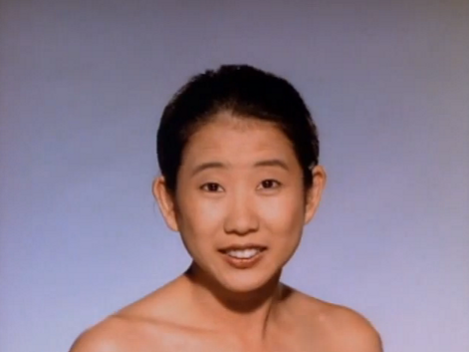
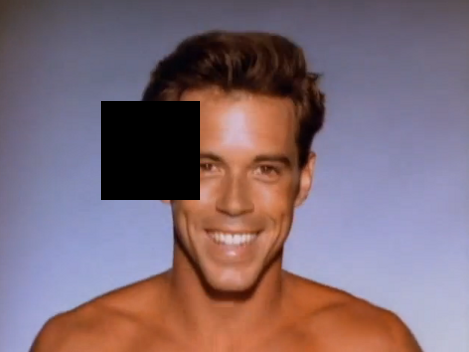
Morph update

diff --git a/morph.php b/morph.php
@@ -3,26 +3,39 @@
  * Documents:
  * http://www.cs.toronto.edu/~mangas/teaching/320/slides/CSC320T12.pdf
  * http://www.cs.cmu.edu/afs/andrew/scs/cs/15-463/99/pub/www/notes/warp.pdf
+ * http://graphics.cs.cmu.edu/courses/15-463/2011_fall/Lectures/morphing.pdf
  */
 
-$srcImage = __DIR__ . '/images/morph/pic2.png';
-$trgImage = __DIR__ . '/images/morph/pic3.png';
+$srcImage = __DIR__ . '/images/morph/pic3.png';
+$trgImage = __DIR__ . '/images/morph/pic2.png';
+
+$morphDir = __DIR__ . '/morph/';
+
+array_map('unlink', glob("$morphDir/*"));
 
 $info = getimagesize($srcImage);
 $width = array_shift($info);
 $height = array_shift($info);
 
-//$P = [240, 160];
-//$Q = [243, 224];
-//
-//$im = imagecreatefrompng($srcImage);
-//header('Content-Type: image/png');
-//$color = 0x0000FF;
-//imageline($im, $P[0], $P[1], $Q[0], $Q[1], $color);
-//imagepng($im);
-//imagedestroy($im);
-//
-//exit;
+$P = [180, 40];
+$Q = [140, 110];
+
+$filename = $morphDir . '/src.01.png';
+$im = imagecreatefrompng($srcImage);
+$color = 0x0000FF;
+imageline($im, $P[0], $P[1], $Q[0], $Q[1], $color);
+imagepng($im, $filename);
+imagedestroy($im);
+
+$P_ = [195, 67];
+$Q_ = [145, 145];
+
+$filename = $morphDir . '/trg.01.png';
+$im = imagecreatefrompng($trgImage);
+$color = 0x0000FF;
+imageline($im, $P_[0], $P_[1], $Q_[0], $Q_[1], $color);
+imagepng($im, $filename);
+imagedestroy($im);
 
 
 $srcImgData = [];
@@ -63,53 +76,81 @@ $step = 1 / $parts;
 
 $i = 1;
 
-$morphDir = __DIR__ . '/morph/';
+$dfrac = 0.5;
+$t = $dfrac;
 
-array_map('unlink', glob("$morphDir/*"));
+$P = [100, 100];
+$Q = [100, 200];
 
-for ($dfrac = 0; $dfrac < 2; $dfrac += $step) {
+$P_ = [200, 100];
+$Q_ = [200, 200];
 
-    if($dfrac > 1) {
-        $dfrac = 1;
-    }
+$Pt = [(1 - $t) * $P[0] + $t * $P_[0], (1 - $t) * $P[1] + $t * $P_[1]];
+$Qt = [(1 - $t) * $Q[0] + $t * $Q_[0], (1 - $t) * $Q[1] + $t * $Q_[1]];
 
-// Method: cross-dissolve 
+$p00 = $P;
+$p10 = $P_;
+$p01 = $Q;
+$p11 = $Q_;
 
-// http://www.cs.toronto.edu/~mangas/teaching/320/slides/CSC320T12.pdf
-// http://www.cs.cmu.edu/afs/andrew/scs/cs/15-463/99/pub/www/notes/warp.pdf
+//print_r([$p00, $p01, $p01, $p11]);exit;
 
-//for y = ymin to ymax
-//for x = xmin to xmax
-//temp[x,y].r = picA[x,y].r + dfrac*(picB[x,y].r-picA[x,y].r)
-//temp[x,y].g = picA[x,y].g + dfrac*(picB[x,y].g-picA[x,y].g)
-//temp[x,y].b = picA[x,y].b + dfrac*(picB[x,y].b-picA[x,y].b)
-
-    for ($r = 0; $r < $height; $r++) {
-        for ($c = 0; $c < $width; $c++) {
-            $resultImgData[$r][$c] =
-                  ($srcImgData[$r][$c][0] + $dfrac * ($trgImgData[$r][$c][0] - $srcImgData[$r][$c][0])) << 16  // R
-                | ($srcImgData[$r][$c][1] + $dfrac * ($trgImgData[$r][$c][1] - $srcImgData[$r][$c][1])) << 8   // G
-                | ($srcImgData[$r][$c][2] + $dfrac * ($trgImgData[$r][$c][2] - $srcImgData[$r][$c][2]));       // B
+for ($r = 0; $r < $height; $r++) {
+    for ($c = 0; $c < $width; $c++) {
+        $x = $c;
+        $y = $r;
+         
+// px0 = p00 + x*(p10-p00)
+   $px0 = [$p00[0] + $x * ($p10[0] - $p00[0]), $p00[1] + $x * ($p10[1] - $p00[1])];
+// px1 = p01 + x*(p11-p01)
+   $px1 = [$p01[0] + $x * ($p11[0] - $p01[0]), $p01[1] + $x * ($p11[1] - $p01[1])];
+// pxy = px0 + y*(px1-px0)                
+   $pxy = [$px0[0] + $y * ($px1[0] - $px0[0]), $px0[1] + $y * ($px1[1] - $px0[1])];
+      
+        
+        $nr = $r;
+        $nc = $c;
+        
+        if($x > 100 and $x < 200 and $y > 100 and $y < 200) {
+            $nr = $pxy[1];
+            $nc = $pxy[0];
+            
+            print_r([$nc, $nr]);
         }
+
+        $resultImgData[$r][$c] = $srcImgData[$nr][$nc][0] << 16 | $srcImgData[$nr][$nc][1] << 8 | $srcImgData[$nr][$nc][2];
+                
+//              ($srcImgData[$r][$c][0] + $dfrac * ($trgImgData[$r][$c][0] - $srcImgData[$r][$c][0])) << 16  // R
+//            | ($srcImgData[$r][$c][1] + $dfrac * ($trgImgData[$r][$c][1] - $srcImgData[$r][$c][1])) << 8   // G
+//            | ($srcImgData[$r][$c][2] + $dfrac * ($trgImgData[$r][$c][2] - $srcImgData[$r][$c][2]));       // B
     }
+}
 
 // Create image:
 
-    $im = @imagecreatetruecolor($width, $height);
+$im = @imagecreatetruecolor($width, $height);
 
-    $filename = $morphDir . sprintf('%02d', $i++) . '.png';
+$filename = $morphDir . sprintf('%02d', $i++) . '.png';
 
-    for ($r = 0; $r < $height; $r++) {
-        for ($c = 0; $c < $width; $c++) {
-            imagesetpixel($im, $c, $r, $resultImgData[$r][$c]);
-        }
-    }
-
-    imagepng($im, $filename);
-    imagedestroy($im);
-    var_dump($filename, $dfrac);
-    
-    if($dfrac === 1) {
-        break;
+for ($r = 0; $r < $height; $r++) {
+    for ($c = 0; $c < $width; $c++) {
+        imagesetpixel($im, $c, $r, $resultImgData[$r][$c]);
     }
 }
+
+imagepng($im, $filename);
+imagedestroy($im);
+
+exit;
+
+
+$resfname = $morphDir . '/res.01.png';
+$im = imagecreatefrompng($srcImage);
+$color = 0x0000FF;
+
+imageline($im, $P[0], $P[1], $Q[0], $Q[1], 0x00FF00);
+imageline($im, $P_[0], $P_[1], $Q_[0], $Q_[1], 0x00FF00);
+
+imageline($im, $Pt[0], $Pt[1], $Qt[0], $Qt[1], $color);
+imagepng($im, $resfname);
+imagedestroy($im);
